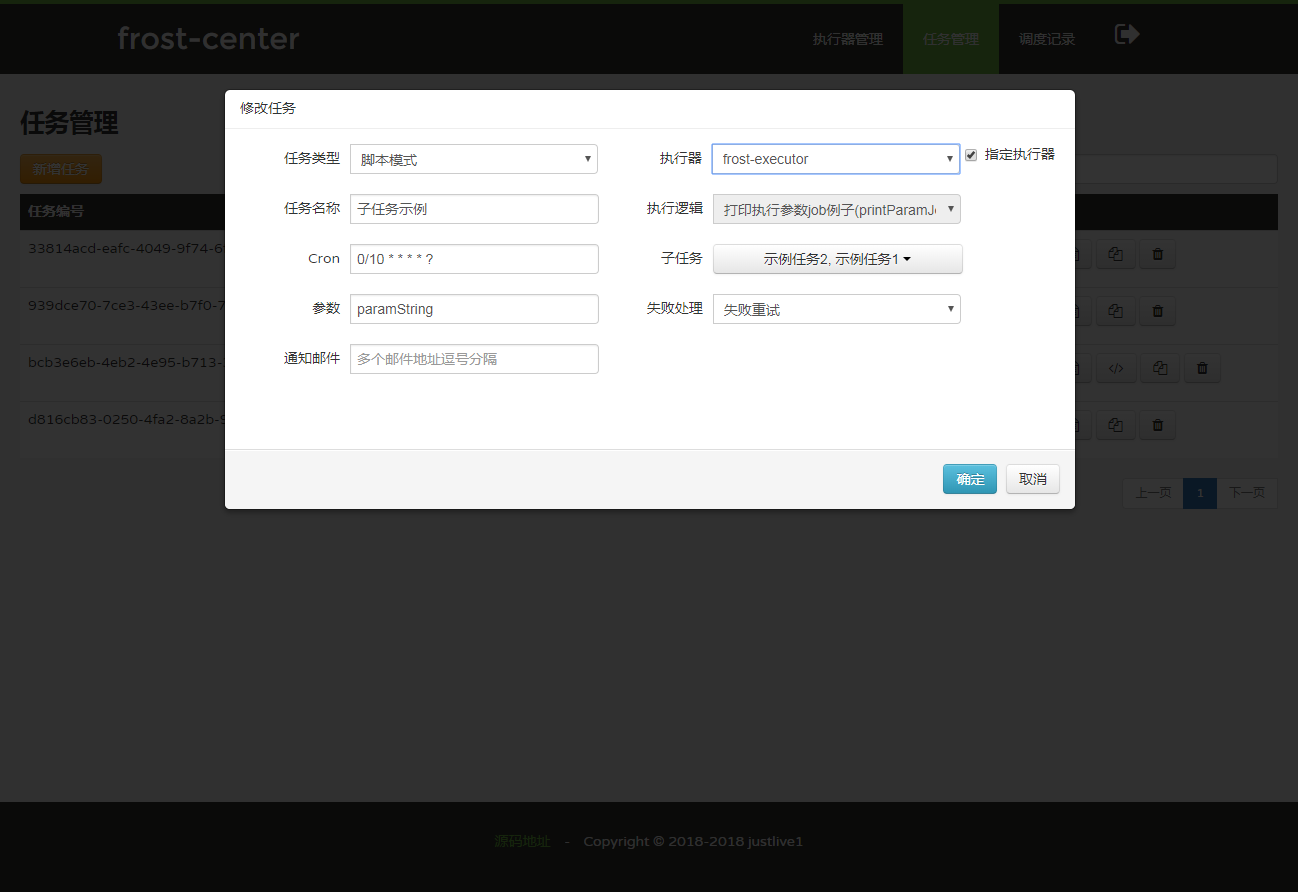
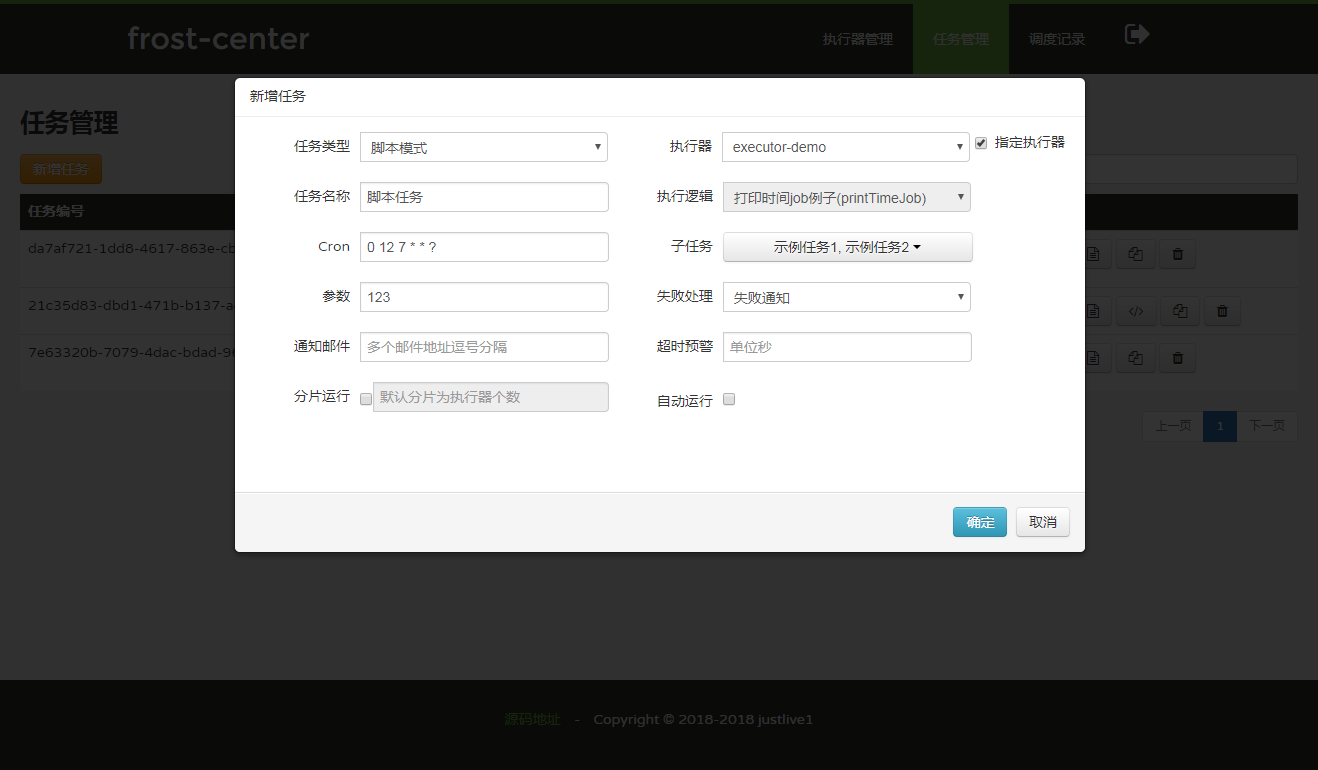
增加1.1.0说明

diff --git a/README.md b/README.md
@@ -18,16 +18,23 @@ earth-frost是一个轻量级分布式任务调度框架。
 - Thymeleaf: 3
 
 ## 功能
-- 简单易上手，支持web界面进行任务的CRUD … ok
-- 支持动态修改任务的开始，停止  … ok
-- 调度中心支持集群部署，将任务的调度进行封装，支持分配各种不同的任务 … ok
-- 执行器支持分布式，支持集群部署，可进行相应分组，在调度中心界面查看 … ok
-- 支持伸缩扩展，调度中心和执行器都是基于redis订阅模式进行服务注册发现和任务调度，服务上下线发现及时 … ok
-- 支持失败重试 … ok
-- 任务监控和报警  … ok
-- 动态编译任务，支持web界面编辑任务源码，创建任务  … ok
-- 支持父子任务  … ok
-- 运行报表  … ok
+1.0.0
+- 简单易上手，支持web界面进行任务的CRUD
+- 支持动态修改任务的开始，停止
+- 调度中心支持集群部署，将任务的调度进行封装，支持分配各种不同的任务
+- 执行器支持分布式，支持集群部署，可进行相应分组，在调度中心界面查看
+- 支持伸缩扩展，调度中心和执行器都是基于redis订阅模式进行服务注册发现和任务调度，服务上下线发现及时
+- 支持失败重试
+- 任务监控和报警
+- 动态编译任务，支持web界面编辑任务源码，创建任务
+- 支持父子任务
+- 运行报表 
+
+1.1.0
+- 支持钉钉预警通知
+- 调度记录增加执行时间
+- 任务超时报警机制
+- 支持分片任务
 
 ## 开发
 	
@@ -74,6 +81,13 @@ frost.notifier.mail.from=${spring.mail.username}
 frost.notifier.mail.to=
 frost.notifier.mail.subject=#{job.name} (#{job.id}) throws an exception
 frost.notifier.mail.text=#{job.name} (#{job.id}) \n #{event.message}
+
+# 钉钉通知
+frost.notifier.dingtalk.enabled=false
+frost.notifier.dingtalk.subject=There is something wrong with #{job.name} (#{job.id})
+frost.notifier.dingtalk.text=#{job.name} (#{job.id}) \n #{event.message}
+frost.notifier.dingtalk.accessToken=
+frost.notifier.dingtalk.linkUrl=localhost:20000/center
 
 # redis配置
 # 0:单机模式， 1：集群模式，2：云托管模式，3：哨兵模式，4：主从模式
@@ -221,6 +235,8 @@ cron：触发任务的表达式
 	失败通知（默认）：调度或执行失败后，触发通知，默认提供了邮件，可继承AbstractEventNotifier进行扩展
 	失败重试：调度或执行失败后，会主动再次调度或执行
 通知邮件：调度中心配置了全局的默认推送邮件地址，每个任务可自定义添加通知邮件列表
+超时预警：可填写任务的预期处理时间，超过时间还未执行完任务则进行预警
+分片运行：勾选后任务分片运行，可填写分片总数，注意：分片任务需要任务逻辑支持分片方式，否则会重复执行
 自动运行：勾选后创建任务即是运行状态
 ```
 
@@ -255,6 +271,34 @@ cron：触发任务的表达式
 
 注意：分布式执行器使用@Resource/@Autowired要确认是否所有执行器都存在注入的Bean，可配合指定执行器的分组来限定执行脚本任务的执行器
 ![修改脚本](https://gitee.com/justlive1/earth-frost/raw/master/images/script.jpeg)
+
+### 开发分片任务
+
+#### 1.在执行器项目中开发执行逻辑
+
+分片任务通过将一个任务同时分发给所有执行器(或指定分片数量)，协同进行任务处理，当进行大数据量操作时可显著提高处理速度。
+
+```
+public class ShardingJob implements IJob {
+
+  @Override
+  public void execute(JobContext ctx) {
+	// 获取分片信息
+    JobSharding sharding = ctx.getSharding();
+	// 分片序号
+    int index = sharding.getIndex();
+    // 分片总数
+    int total = sharding.getTotal();
+    
+    ... 业务逻辑
+  }
+}
+```
+
+#### 2.在调度中心，新建任务
+
+参考上述实例任务配置任务，勾选分片运行，可使用默认执行器个数用于支持动态扩容或指定分片总数
+![添加任务](https://gitee.com/justlive1/earth-frost/raw/master/images/addShardingJob.jpeg)
 
 ### 任务管理
 
